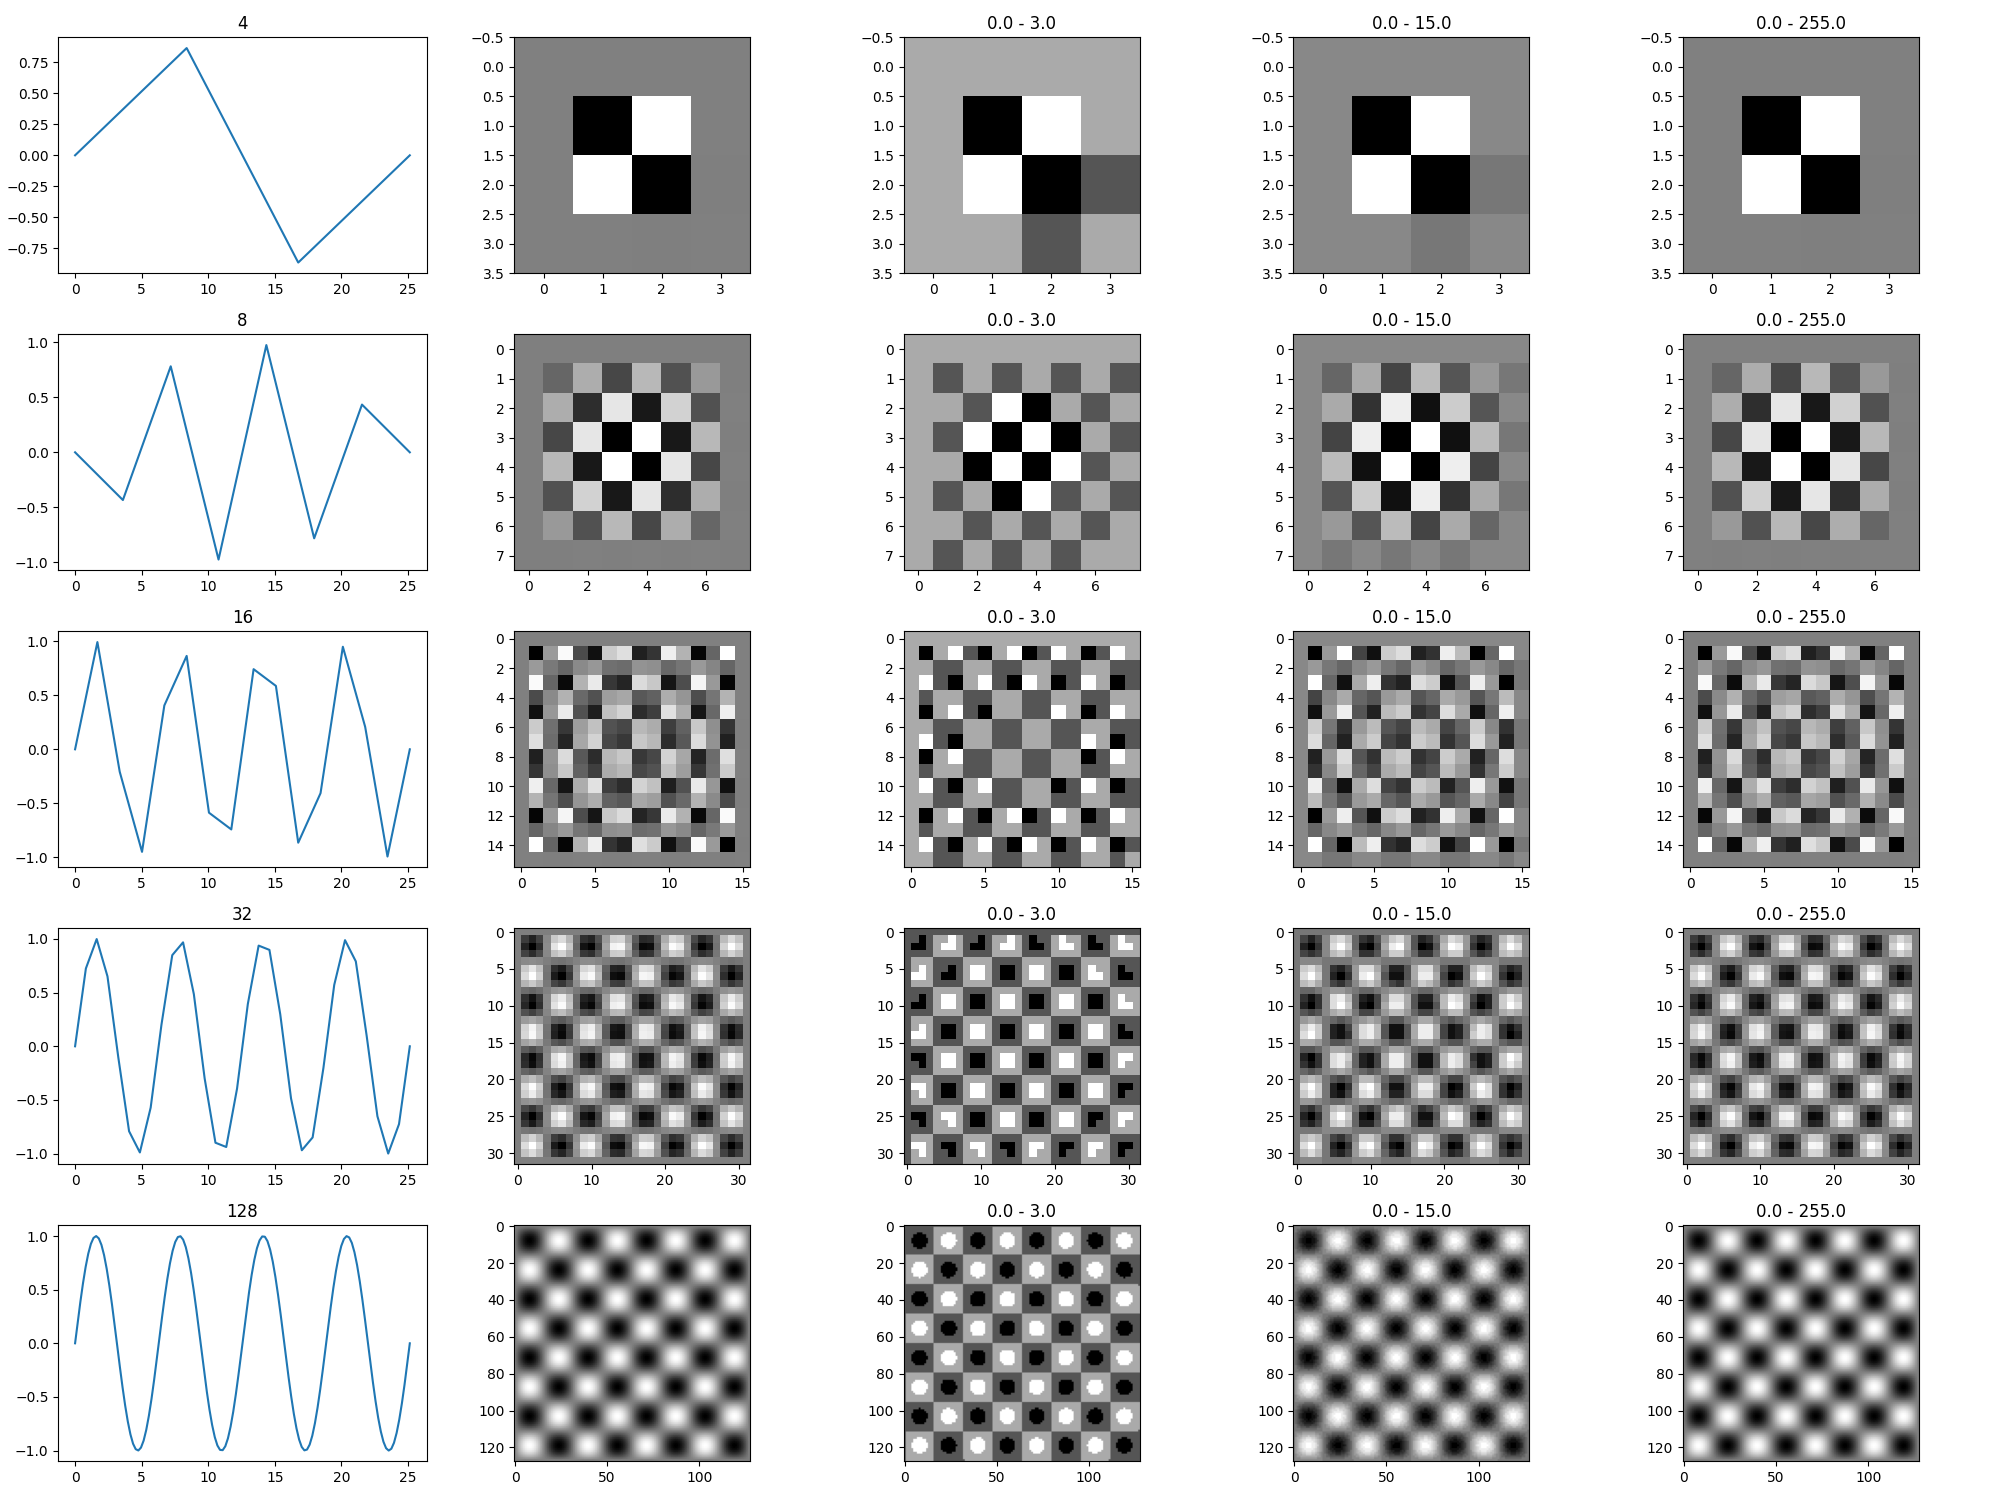
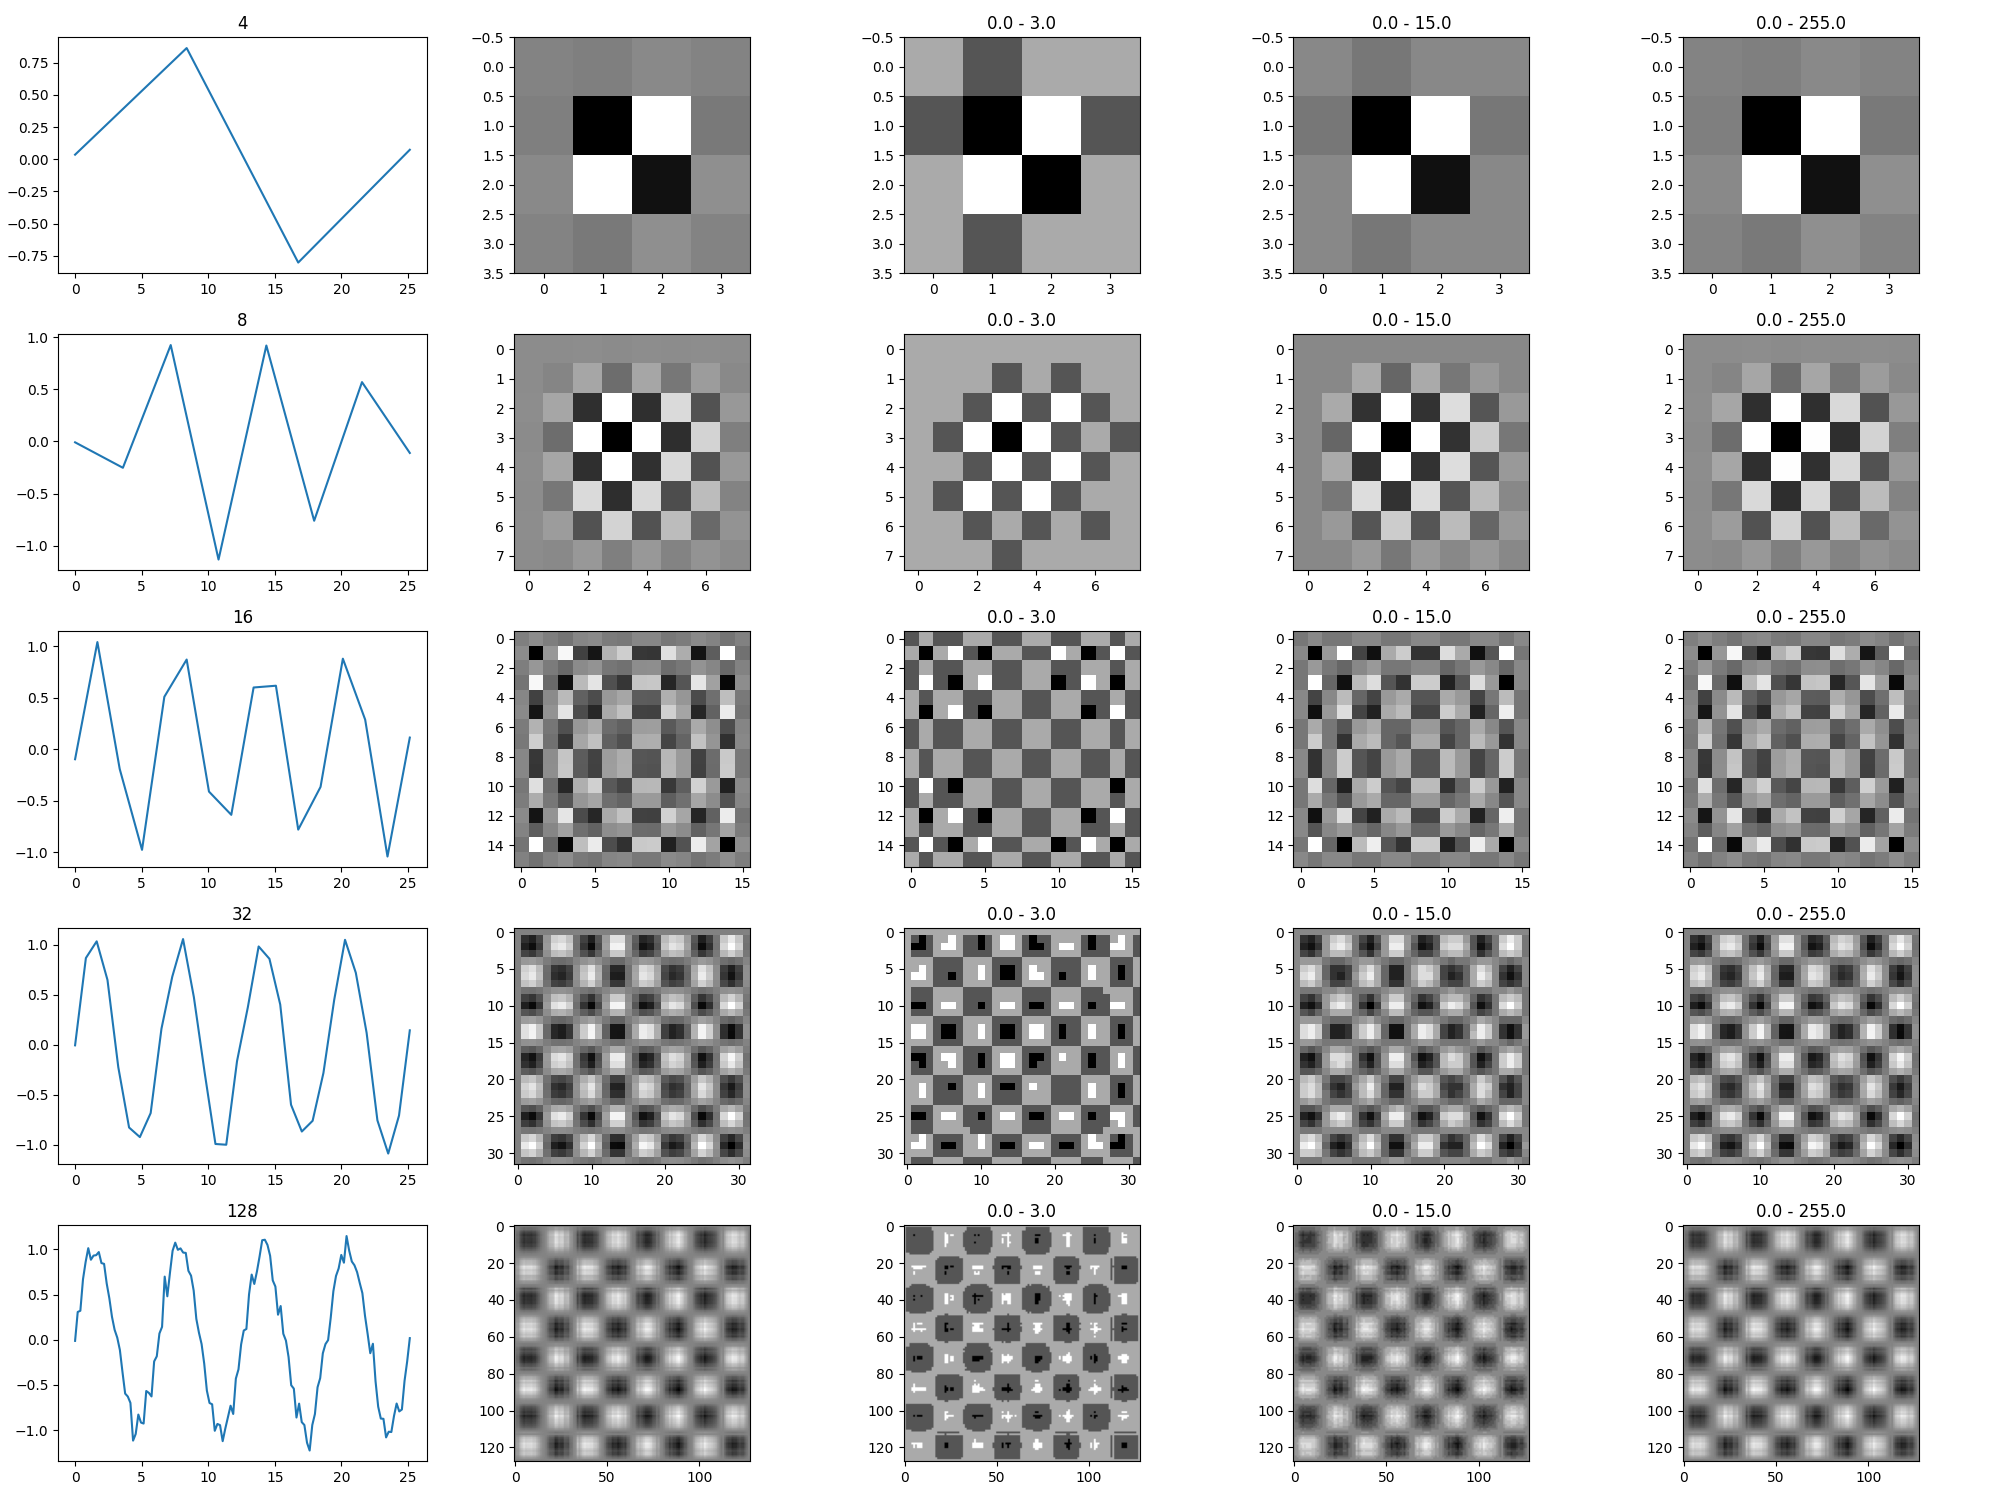
add lab1

diff --git a/lab1/script.py b/lab1/script.py
@@ -1,0 +1,50 @@
+import numpy as np
+import matplotlib.pyplot as plt
+
+depth = 2
+
+drangeMin = -1
+drangeMax = 1
+
+resolution = 256
+
+n_iter = 256
+
+N = np.power(2, depth) - 1
+
+prober = np.linspace(0, 8*np.pi, resolution)
+prober = np.sin(prober)
+
+perfect_image = prober[:,np.newaxis] * prober[np.newaxis,:]
+
+n_matrix = np.zeros(perfect_image.shape)
+o_matrix = np.zeros(perfect_image.shape)
+
+for i in range(n_iter):
+    noise = np.random.normal(0, 1, perfect_image.shape)
+    n_image = perfect_image + noise
+    o_image = np.copy(perfect_image)
+
+    n_image -= np.min(n_image)
+    n_image /= np.max(n_image)
+    n_digm = np.rint(n_image * N)
+
+    o_image -= np.min(o_image)
+    o_image /= np.max(o_image)
+    o_digm = np.rint(o_image * N)
+
+    n_matrix += n_digm
+    o_matrix += o_digm
+
+    fig, ax = plt.subplots(2, 3, figsize=(12,8))
+    
+    ax[0,0].imshow(perfect_image, cmap='binary')
+    ax[1,0].imshow(noise, cmap='binary')
+
+    ax[0,1].imshow(o_digm, cmap='binary')
+    ax[1,1].imshow(n_digm, cmap='binary')
+
+    ax[0,2].imshow(o_matrix, cmap='binary')
+    ax[1,2].imshow(n_matrix, cmap='binary')
+
+    plt.savefig('lab1.png')

diff --git a/lab0/script.py b/lab0/script.py
@@ -5,10 +5,17 @@ res = [4, 8, 16, 32, 128]
 pi_num = 8
 fig, ax = plt.subplots(len(res), 5, figsize=(20,15))
 
+
+mu, sigma = 0, 0.1 # mean and standard deviation
+
+
 for y_index, i in enumerate(res):    
     samp = np.linspace(0, pi_num*np.pi, i)
     signal = np.sin(samp) #spróbkowany sygnał sinusa linspacem-samp    
-    
+
+    s = np.random.normal(mu, sigma, i)
+    signal = signal + s
+
     ax[y_index, 0].plot(samp, signal)
     ax[y_index, 0].set_title(i)
     
